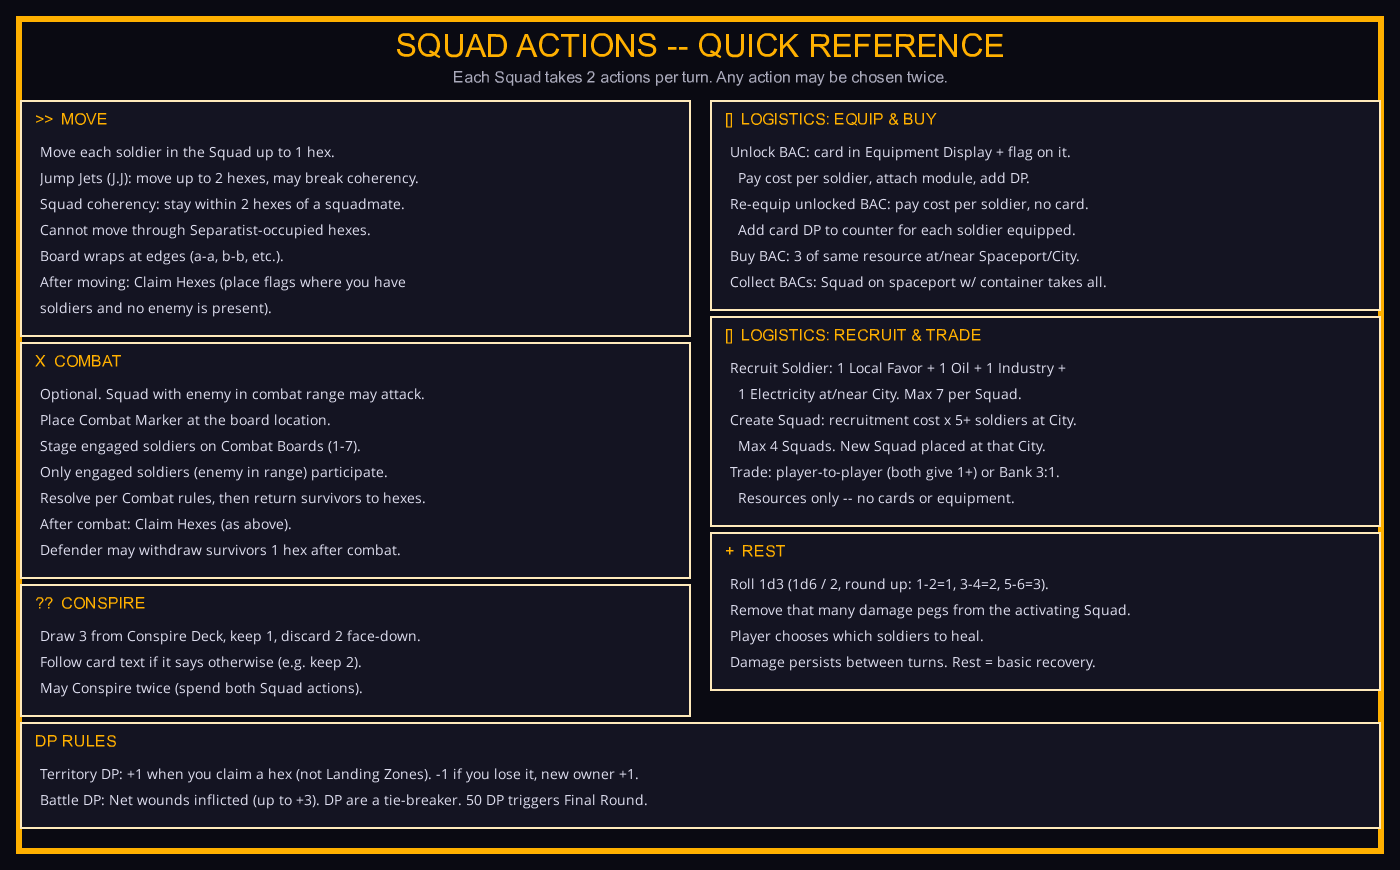
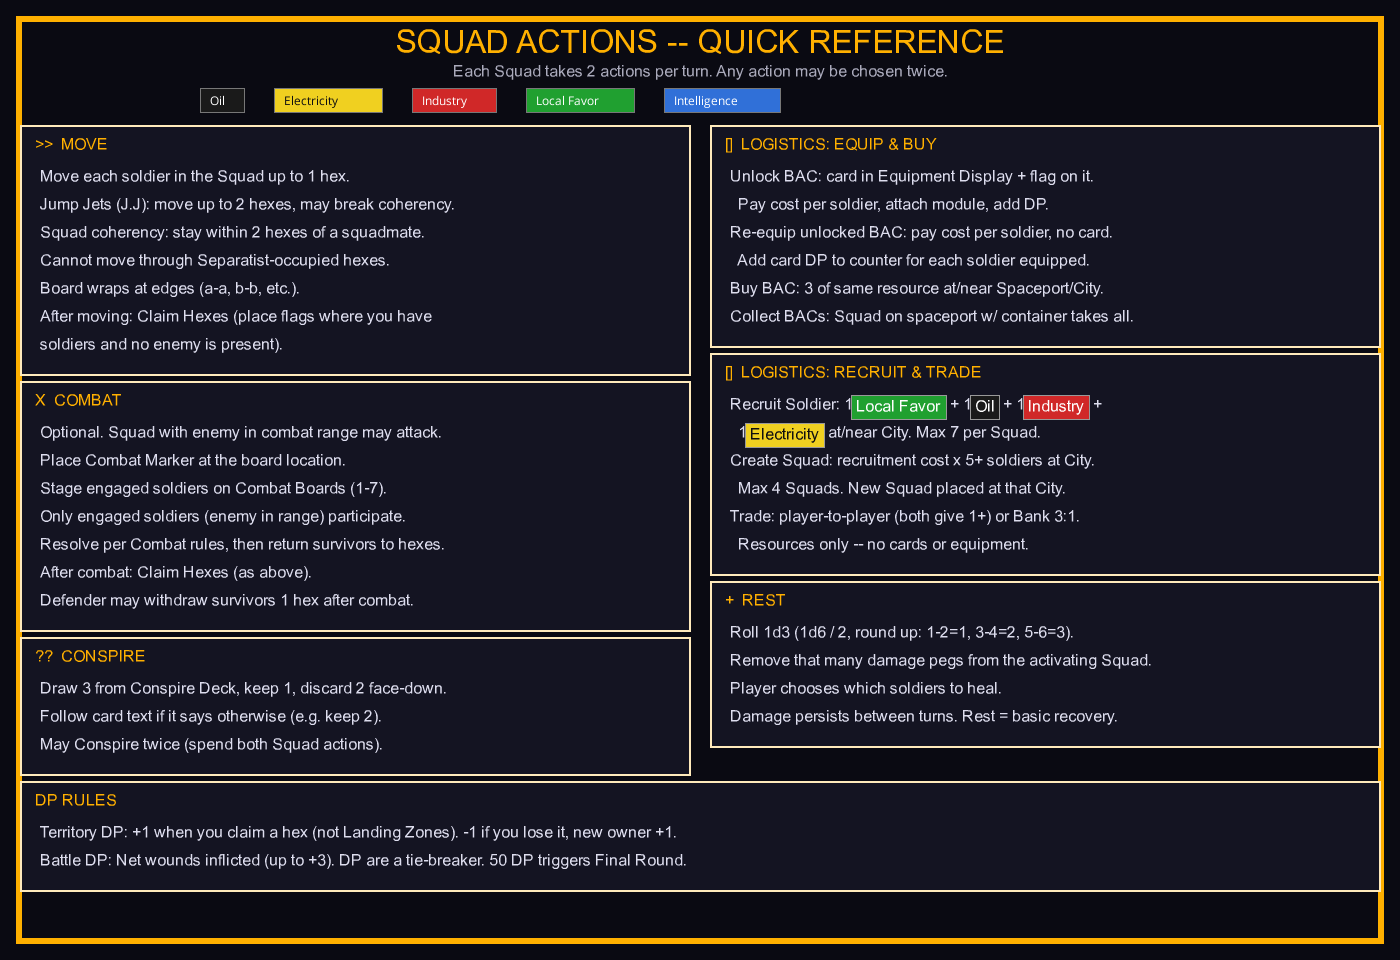
tts: render resource badges inline in Logistics reference blocks
Amp-Thread-ID: https://ampcode.com/threads/T-019f9e19-ba55-77d0-a537-907eecdfc6bb

Changed region(s): [[0.0, 0.0, 0.9829, 0.931], [0.0307, 0.9621, 0.9829, 0.9931]]

diff --git a/tts/generate-extra-actions-board.js b/tts/generate-extra-actions-board.js
@@ -2,8 +2,8 @@
 /**
  * W.A.R H.A.M.S -- Extra Actions Reference Board Generator
  *
- * Two-column layout with bigger 14px body text for readability.
- * Footer DP rules in their own panel. No empty space.
+ * Two-column layout with crisp 16px white-font text and a resource
+ * color legend. Footer DP rules in their own panel. No empty space.
  *
  * Usage:   node generate-extra-actions-board.js
  * Outputs: tts/v72/extra-actions-board.png
@@ -19,13 +19,22 @@ if (!fs.existsSync(outDir)) fs.mkdirSync(outDir, { recursive: true });
 
 const FONT_DIR = path.join(__dirname, "..", "node_modules", "@jimp", "plugin-print", "dist", "fonts");
 
-// Canvas — two columns, tight fit
+// Canvas
 const W = 1400;
-const H = 870;
+const H = 960;
 const BLACK = 0x0A0A12FF;
 const AMBER = 0xFFB000FF;
 const AMBER_R = 0xFF, AMBER_G = 0xB0, AMBER_B = 0x00;
 const BORDER = 6;
+
+// Resource colors (matching game tokens/cards)
+const RESOURCES = [
+    { name: "Oil",          bg: 0x1A1A1AFF, textR: 0xFF, textG: 0xFF, textB: 0xFF },
+    { name: "Electricity",  bg: 0xF0D020FF, textR: 0x10, textG: 0x10, textB: 0x10 },
+    { name: "Industry",     bg: 0xD02828FF, textR: 0xFF, textG: 0xFF, textB: 0xFF },
+    { name: "Local Favor",  bg: 0x20A030FF, textR: 0xFF, textG: 0xFF, textB: 0xFF },
+    { name: "Intelligence", bg: 0x3070D8FF, textR: 0xFF, textG: 0xFF, textB: 0xFF },
+];
 
 // Helpers
 function pixel(img, x, y, color) {
@@ -69,6 +78,74 @@ async function printCentered(img, font, text, y, color) {
     });
     if (color) tintArea(layer, W, 80, color.r, color.g, color.b);
     img.composite(layer, 0, y);
+}
+
+// Draw a resource badge: colored rounded rect with resource name
+async function drawResourceBadge(img, font, res, x, y) {
+    const badgeW = res.name.length * 8 + 20;
+    const badgeH = 24;
+    // Fill background
+    fillRect(img, x, y, x + badgeW, y + badgeH, res.bg);
+    // Draw border
+    strokeRect(img, x, y, x + badgeW, y + badgeH, 1, 0x00000088);
+    // Print name
+    await printText(img, font, res.name, x + 10, y + 4, { r: res.textR, g: res.textG, b: res.textB });
+    return badgeW;
+}
+
+// Map resource name -> color spec, and a regex that matches any resource
+// name (longest first) for splitting lines into badge/non-badge segments.
+const RES_BY_NAME = Object.fromEntries(RESOURCES.map(r => [r.name, r]));
+const RES_NAMES_SORTED = RESOURCES.map(r => r.name).sort((a, b) => b.length - a.length);
+function escapeRe(s) { return s.replace(/[.*+?^${}()|[\]\\]/g, "\\$&"); }
+const RES_REGEX = new RegExp("(" + RES_NAMES_SORTED.map(escapeRe).join("|") + ")", "g");
+
+// Scan a rendered layer to find the width of its visible content.
+function measureTextScan(font, text) {
+    const layer = new Jimp({ width: 1600, height: 80, color: 0x00000000 });
+    layer.print({ font, x: 0, y: 0, text: String(text), maxWidth: 1600 });
+    let maxW = 0;
+    layer.scan(0, 0, layer.bitmap.width, layer.bitmap.height, function (x, y, idx) {
+        if (this.bitmap.data[idx + 3] > 0 && x > maxW) maxW = x;
+    });
+    return maxW + 1;
+}
+
+// Print text at (x,y), tinted to color, and return its rendered width.
+async function printTextW(img, font, text, x, y, color) {
+    const layer = new Jimp({ width: W, height: 80, color: 0x00000000 });
+    layer.print({ font, x: 0, y: 0, text: String(text), maxWidth: W });
+    if (color) tintArea(layer, W, 80, color.r, color.g, color.b);
+    img.composite(layer, x, y);
+    return measureTextScan(font, text);
+}
+
+// Print a line that may contain resource names inline as colored badges.
+// Resource names get a filled colored rect background; other text uses
+// defaultColor. Returns the total rendered width.
+async function printLineWithBadges(img, font, line, x, y, defaultColor) {
+    const parts = line.split(RES_REGEX);
+    let curX = x;
+    for (let i = 0; i < parts.length; i++) {
+        const part = parts[i];
+        if (part === "") continue;
+        if (RES_BY_NAME[part]) {
+            const res = RES_BY_NAME[part];
+            const textW = measureTextScan(font, part);
+            const padX = 5;
+            const bx1 = curX, by1 = y;
+            const bx2 = curX + textW + padX * 2;
+            const by2 = y + 24;
+            fillRect(img, bx1, by1, bx2, by2, res.bg);
+            strokeRect(img, bx1, by1, bx2, by2, 1, 0x00000066);
+            await printTextW(img, font, part, curX + padX, y + 2, { r: res.textR, g: res.textG, b: res.textB });
+            curX += textW + padX * 2;
+        } else {
+            const w = await printTextW(img, font, part, curX, y, defaultColor);
+            curX += w;
+        }
+    }
+    return curX - x;
 }
 
 // Action data
@@ -159,17 +236,26 @@ const footerLines = [
 
     // Title
     const titleFont = await loadFont(path.join(FONT_DIR, "open-sans/open-sans-32-white/open-sans-32-white.fnt"));
-    await printCentered(img, titleFont, "SQUAD ACTIONS -- QUICK REFERENCE", 28, { r: AMBER_R, g: AMBER_G, b: AMBER_B });
+    await printCentered(img, titleFont, "SQUAD ACTIONS -- QUICK REFERENCE", 24, { r: AMBER_R, g: AMBER_G, b: AMBER_B });
 
     // Subtitle
     const subFont = await loadFont(path.join(FONT_DIR, "open-sans/open-sans-16-white/open-sans-16-white.fnt"));
-    await printCentered(img, subFont, "Each Squad takes 2 actions per turn. Any action may be chosen twice.", 68, { r: 0xAA, g: 0xAA, b: 0xBB });
+    await printCentered(img, subFont, "Each Squad takes 2 actions per turn. Any action may be chosen twice.", 62, { r: 0xAA, g: 0xAA, b: 0xBB });
 
-    // Fonts — 14px body for readability
-    const bodyFont = await loadFont(path.join(FONT_DIR, "open-sans/open-sans-14-black/open-sans-14-black.fnt"));
+    // Fonts — 16px white for crisp body text (white fonts tint cleanly)
+    const bodyFont = await loadFont(path.join(FONT_DIR, "open-sans/open-sans-16-white/open-sans-16-white.fnt"));
     const nameFont = await loadFont(path.join(FONT_DIR, "open-sans/open-sans-16-white/open-sans-16-white.fnt"));
+    const badgeFont = await loadFont(path.join(FONT_DIR, "open-sans/open-sans-12-black/open-sans-12-black.fnt"));
 
-    const lineH = 26;
+    // Resource legend — colored badges in a row below subtitle
+    const legendY = 88;
+    let badgeX = 200;
+    for (const res of RESOURCES) {
+        const w = await drawResourceBadge(img, badgeFont, res, badgeX, legendY);
+        badgeX += w + 30;
+    }
+
+    const lineH = 28;
     const sectionGap = 18;
     const headerH = 42;
     const panelPad = 12;
@@ -178,13 +264,13 @@ const footerLines = [
     const colW = 670;
     const col1X = 20;
     const col2X = 710;
-    const startY = 100;
+    const startY = 125;
 
     // Left: MOVE, COMBAT, CONSPIRE
     // Right: LOGISTICS EQUIP, LOGISTICS RECRUIT, REST
     const colLayout = [
-        { x: col1X, items: [actions[0], actions[1], actions[4]] },     // Move, Combat, Conspire
-        { x: col2X, items: [actions[2], actions[3], actions[5]] },     // Logistics Equip, Logistics Recruit, Rest
+        { x: col1X, items: [actions[0], actions[1], actions[4]] },
+        { x: col2X, items: [actions[2], actions[3], actions[5]] },
     ];
 
     let colBottoms = [startY, startY];
@@ -201,8 +287,13 @@ const footerLines = [
             await printText(img, nameFont, act.icon + "  " + act.name, x + 15, y + 10, { r: AMBER_R, g: AMBER_G, b: AMBER_B });
             let ty = y + headerH;
 
+            const useBadges = act.name.startsWith("LOGISTICS");
             for (const line of act.lines) {
-                await printText(img, bodyFont, line, x + 20, ty, { r: 0xDD, g: 0xDD, b: 0xEE });
+                if (useBadges) {
+                    await printLineWithBadges(img, bodyFont, line, x + 20, ty, { r: 0xDD, g: 0xDD, b: 0xEE });
+                } else {
+                    await printText(img, bodyFont, line, x + 20, ty, { r: 0xDD, g: 0xDD, b: 0xEE });
+                }
                 ty += lineH;
             }
 

diff --git a/tts/generate-save.js b/tts/generate-save.js
@@ -1630,16 +1630,16 @@ objects.push(dealBacsButton);
 // rules replaces the old Quick Reference PDF book. The full rulebook
 // remains as a Custom_PDF that players right-click to Open.
 const RULEBOOK_PDF_URL = "https://raw.githubusercontent.com/YossiTurgeman/WarHams/main/design/WARHAMS-Rulebook.pdf";
-const EXTRA_ACTIONS_BOARD_URL = `${SOLDIER_BASE}/extra-actions-board.png?r3`;
+const EXTRA_ACTIONS_BOARD_URL = `${SOLDIER_BASE}/extra-actions-board.png?r4`;
 
 // Extra Actions reference board — locked Custom_Tile south of the
 // combat zone, visible to all players without clicking.
-// Texture is 1400x870 (two-column). Custom_Tile Type=0
+// Texture is 1400x960 (two-column). Custom_Tile Type=0
 // renders ~2 world units per scale unit.
 const extraActionsBoard = baseObj("Custom_Tile", "Squad Actions Quick Reference",
     "Visible reference board: all Squad Actions (Move, Combat, Logistics, Conspire, Rest) with costs, timing, and key restrictions. Plus DP rules.",
     83, 1.02, -27,
-    { rotY: 180, scaleX: 7, scaleY: 0.2, scaleZ: 4.35,
+    { rotY: 180, scaleX: 7, scaleY: 0.2, scaleZ: 4.8,
       color: { r: 1, g: 1, b: 1 }, locked: true, grid: false });
 extraActionsBoard.CustomImage = {
     ImageURL: EXTRA_ACTIONS_BOARD_URL,
